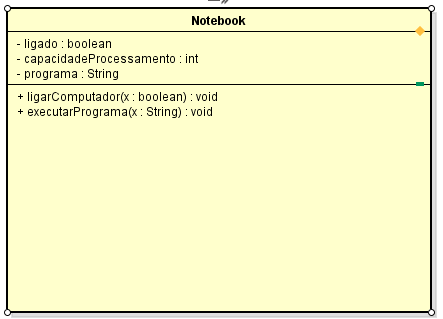
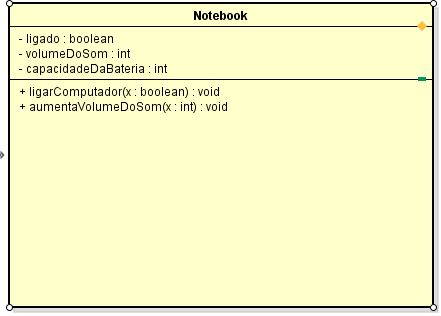
Classe Notbook, aributos ligado, volumeDoSom e capacidadeDaBateria.
foram criados no cpp e h classe NooBook.
o metodo ligarCompuador.
o metodo aumentarVolumeDoSom.

Changed region(s): [[0.0, 0.0, 1.0, 0.9968]]

diff --git a/notebook/Notebook.h b/notebook/Notebook.h
@@ -9,7 +9,7 @@ public:
     ~Notebook();
     void ligarComputador(bool x);
     void aumentaVolumeDoSom(int x);
-    
+    void capacidadeDaBateria(int x);
 
 private:
     bool ligado;
